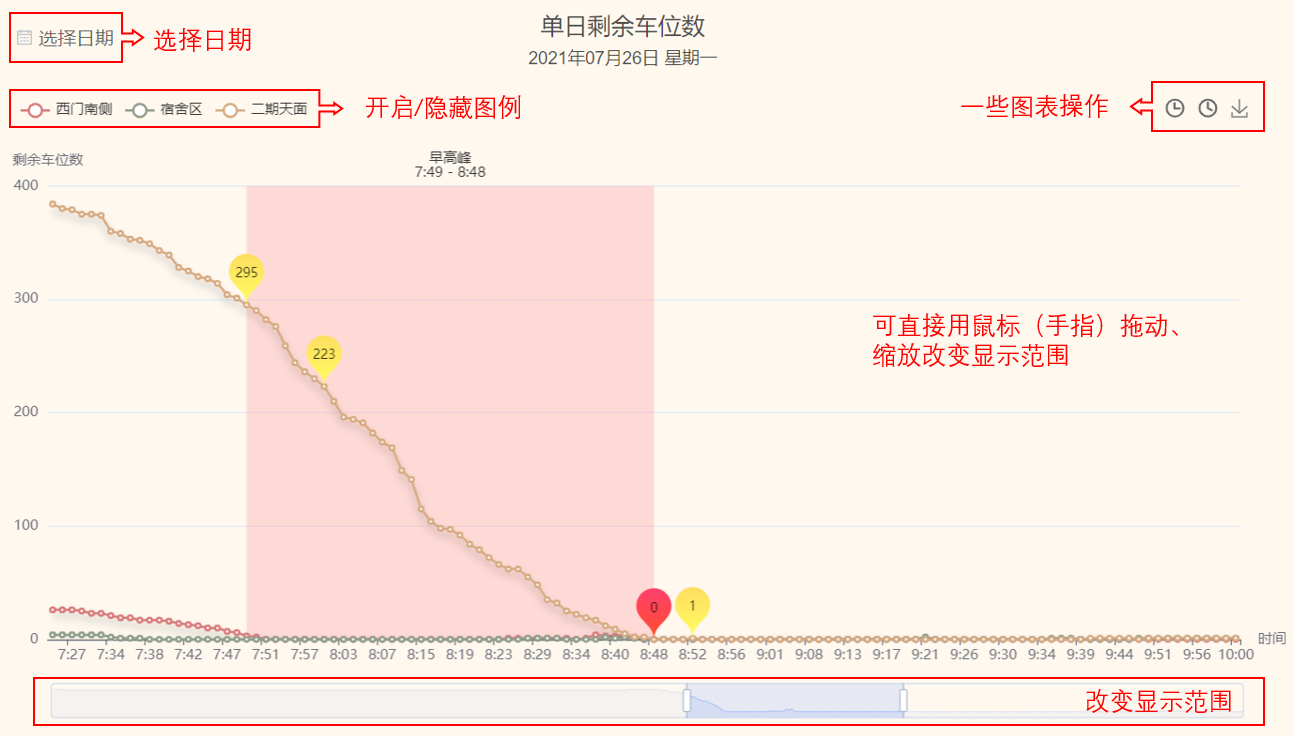
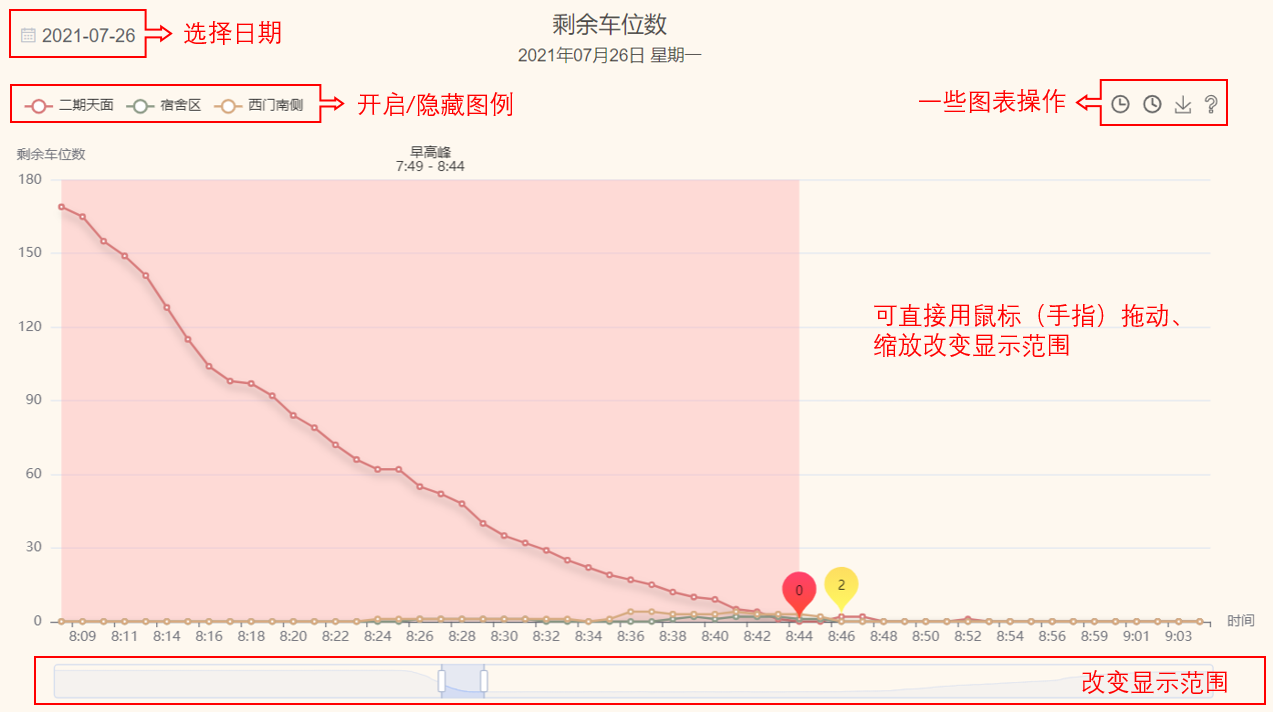
Feature: 添加单个图表的说明: 0

diff --git a/src/components/Charts/theChart4.vue b/src/components/Charts/theChart4.vue
@@ -188,7 +188,6 @@ export default {
         toolbox: {
           show: true,
           right: "9%",
-          // top: "-5px",
           feature: {
             myTool1: {
               show: true,
@@ -209,6 +208,31 @@ export default {
             saveAsImage: {
               title: "保存为图片",
             },
+            myManual: {
+              show: true,
+              icon: "path://M559.261538 748.307692h-98.461538c-15.753846 0-27.569231-11.815385-27.569231-27.56923v-29.538462c0-82.707692 53.169231-157.538462 131.938462-185.107692 23.630769-7.876923 45.292308-21.661538 63.015384-41.353846 98.461538-118.153846 7.876923-259.938462-110.276923-263.876924-43.323077-1.969231-84.676923 13.784615-116.184615 43.323077-25.6 23.630769-41.353846 53.169231-45.292308 86.646154-1.969231 11.815385-13.784615 21.661538-29.538461 21.661539h-98.461539c-17.723077 0-31.507692-13.784615-29.538461-31.507693 7.876923-74.830769 41.353846-141.784615 94.523077-194.953846 63.015385-59.076923 143.753846-90.584615 230.4-88.615384C687.261538 43.323077 821.169231 177.230769 827.076923 340.676923c5.907692 137.846154-78.769231 261.907692-206.769231 309.169231-17.723077 7.876923-29.538462 21.661538-29.538461 39.384615v29.538462c0 17.723077-15.753846 29.538462-31.507693 29.538461zM590.769231 955.076923c0 15.753846-13.784615 29.538462-29.538462 29.538462h-98.461538c-15.753846 0-29.538462-13.784615-29.538462-29.538462v-98.461538c0-15.753846 13.784615-29.538462 29.538462-29.538462h98.461538c15.753846 0 29.538462 13.784615 29.538462 29.538462v98.461538z",
+              onclick: () => {},
+            },
+          },
+          tooltip: {
+            // 和 option.tooltip 的配置项相同
+            show: true,
+            formatter: function (param) {
+              if (param.name === "myManual") {
+                let redDom =
+                  "<div style='padding: 0 20px;font-size:14px;line-height:26px'>" +
+                  "<ul style='list-style: disc'>" +
+                  "<li><p>同一坐标轴上，朝上的柱子（y>0）表示车辆驶出数量。</p><p>朝下的柱子（y<0）表示车辆驶入数量</p></li>" +
+                  "<li><p>默认横坐标间隔以分钟为单位。开启“精确到秒”时，</p><p>大概8:20-8:50的一段时间间隔变为5s</p></li>" +
+                  "</ul>" +
+                  "</div>";
+
+                return redDom; // 自定义的 DOM 结构
+              } else {
+                return "";
+              }
+            },
+            extraCssText: "box-shadow: 0 0 3px rgba(0, 0, 0, 0.3);", // 自定义的 CSS 样式
           },
         },
         axisPointer: {
@@ -220,23 +244,25 @@ export default {
         legend: {
           left: "10%",
           data: [
-            "二期天面出",
             "二期天面入",
-            "宿舍区出",
+            "二期天面出",
             "宿舍区入",
-            "西门南侧出",
+            "宿舍区出",
             "西门南侧入",
+            "西门南侧出",
           ],
         },
         dataset: {
           dimensions: [
             "timeStr",
-            "p7Up",
             "p7Down",
-            "p6Up",
+            "p7Up",
             "p6Down",
-            "p5Up",
+
+            "p6Up",
             "p5Down",
+
+            "p5Up",
           ],
           source: this.dataObj.dataList,
         },
@@ -300,24 +326,16 @@ export default {
             xAxisIndex: 0,
             yAxisIndex: 0,
             type: "bar",
-            name: "二期天面出",
-            stack: "二期天面",
-            itemStyle: this.barChartStyle.itemStyle2,
-          },
-          {
-            xAxisIndex: 0,
-            yAxisIndex: 0,
-            type: "bar",
             name: "二期天面入",
             stack: "二期天面",
             itemStyle: this.barChartStyle.itemStyle,
           },
           {
-            xAxisIndex: 1,
-            yAxisIndex: 1,
+            xAxisIndex: 0,
+            yAxisIndex: 0,
             type: "bar",
-            name: "宿舍区出",
-            stack: "宿舍区",
+            name: "二期天面出",
+            stack: "二期天面",
             itemStyle: this.barChartStyle.itemStyle2,
           },
           {
@@ -329,11 +347,11 @@ export default {
             itemStyle: this.barChartStyle.itemStyle,
           },
           {
-            xAxisIndex: 2,
-            yAxisIndex: 2,
+            xAxisIndex: 1,
+            yAxisIndex: 1,
             type: "bar",
-            name: "西门南侧出",
-            stack: "西门南侧",
+            name: "宿舍区出",
+            stack: "宿舍区",
             itemStyle: this.barChartStyle.itemStyle2,
           },
           {
@@ -343,6 +361,14 @@ export default {
             name: "西门南侧入",
             stack: "西门南侧",
             itemStyle: this.barChartStyle.itemStyle,
+          },
+          {
+            xAxisIndex: 2,
+            yAxisIndex: 2,
+            type: "bar",
+            name: "西门南侧出",
+            stack: "西门南侧",
+            itemStyle: this.barChartStyle.itemStyle2,
           },
         ],
       };

diff --git a/src/components/Charts/lineChart.vue b/src/components/Charts/lineChart.vue
@@ -13,7 +13,7 @@
 
 <script>
 /**
- * 单日车位变化折线图
+ * 车位变化折线图
  */
 import * as echarts from "echarts";
 import chartColors from "@/styles/chartColors";
@@ -212,6 +212,14 @@ export default {
                 this.$emit("showMinuteAccuracy");
               },
             },
+            saveAsImage: {
+              title: "保存为图片",
+            },
+            myManual: {
+              show: true,
+              icon: "path://M559.261538 748.307692h-98.461538c-15.753846 0-27.569231-11.815385-27.569231-27.56923v-29.538462c0-82.707692 53.169231-157.538462 131.938462-185.107692 23.630769-7.876923 45.292308-21.661538 63.015384-41.353846 98.461538-118.153846 7.876923-259.938462-110.276923-263.876924-43.323077-1.969231-84.676923 13.784615-116.184615 43.323077-25.6 23.630769-41.353846 53.169231-45.292308 86.646154-1.969231 11.815385-13.784615 21.661538-29.538461 21.661539h-98.461539c-17.723077 0-31.507692-13.784615-29.538461-31.507693 7.876923-74.830769 41.353846-141.784615 94.523077-194.953846 63.015385-59.076923 143.753846-90.584615 230.4-88.615384C687.261538 43.323077 821.169231 177.230769 827.076923 340.676923c5.907692 137.846154-78.769231 261.907692-206.769231 309.169231-17.723077 7.876923-29.538462 21.661538-29.538461 39.384615v29.538462c0 17.723077-15.753846 29.538462-31.507693 29.538461zM590.769231 955.076923c0 15.753846-13.784615 29.538462-29.538462 29.538462h-98.461538c-15.753846 0-29.538462-13.784615-29.538462-29.538462v-98.461538c0-15.753846 13.784615-29.538462 29.538462-29.538462h98.461538c15.753846 0 29.538462 13.784615 29.538462 29.538462v98.461538z",
+              onclick: () => {},
+            },
             // dataZoom: {
             //   yAxisIndex: "none",
             //   title: {
@@ -223,9 +231,29 @@ export default {
             // restore: {
             //   title: "重置视图",
             // },
-            saveAsImage: {
-              title: "保存为图片",
+          },
+          tooltip: {
+            // 和 option.tooltip 的配置项相同
+            show: true,
+            formatter: function (param) {
+              if (param.name === "myManual") {
+                let redDom =
+                  "<div style='padding: 0 20px;font-size:14px;line-height:26px'>" +
+                  "<ul style='list-style: disc'>" +
+                  "<li>早高峰定义：（二期天面）剩余300个车位至满位的时间段</li>" +
+                  "<li>红色气泡：停车场满位时刻" +
+                  "<p>相邻的下一个黄色气泡：停车场出现空位</p></li>" +
+                  "<li><p>默认横坐标间隔以分钟为单位。开启“精确到秒”时，</p><p>大概8:20-8:50的一段时间间隔变为5s</p></li>" +
+                  "<li><p>由于算法问题，选择“精确到秒”或“精确到分钟”</p><p>显示的早高峰时间段可能会有误差</p></li>" +
+                  "</ul>" +
+                  "</div>";
+
+                return redDom; // 自定义的 DOM 结构
+              } else {
+                return "";
+              }
             },
+            extraCssText: "box-shadow: 0 0 3px rgba(0, 0, 0, 0.3);", // 自定义的 CSS 样式
           },
         },
         // 图表坐标缩放

diff --git a/src/components/Charts/barChart.vue b/src/components/Charts/barChart.vue
@@ -171,6 +171,31 @@ export default {
             saveAsImage: {
               title: "保存为图片",
             },
+            myManual: {
+              show: true,
+              icon: "path://M559.261538 748.307692h-98.461538c-15.753846 0-27.569231-11.815385-27.569231-27.56923v-29.538462c0-82.707692 53.169231-157.538462 131.938462-185.107692 23.630769-7.876923 45.292308-21.661538 63.015384-41.353846 98.461538-118.153846 7.876923-259.938462-110.276923-263.876924-43.323077-1.969231-84.676923 13.784615-116.184615 43.323077-25.6 23.630769-41.353846 53.169231-45.292308 86.646154-1.969231 11.815385-13.784615 21.661538-29.538461 21.661539h-98.461539c-17.723077 0-31.507692-13.784615-29.538461-31.507693 7.876923-74.830769 41.353846-141.784615 94.523077-194.953846 63.015385-59.076923 143.753846-90.584615 230.4-88.615384C687.261538 43.323077 821.169231 177.230769 827.076923 340.676923c5.907692 137.846154-78.769231 261.907692-206.769231 309.169231-17.723077 7.876923-29.538462 21.661538-29.538461 39.384615v29.538462c0 17.723077-15.753846 29.538462-31.507693 29.538461zM590.769231 955.076923c0 15.753846-13.784615 29.538462-29.538462 29.538462h-98.461538c-15.753846 0-29.538462-13.784615-29.538462-29.538462v-98.461538c0-15.753846 13.784615-29.538462 29.538462-29.538462h98.461538c15.753846 0 29.538462 13.784615 29.538462 29.538462v98.461538z",
+              onclick: () => {},
+            },
+          },
+          tooltip: {
+            // 和 option.tooltip 的配置项相同
+            show: true,
+            formatter: function (param) {
+              if (param.name === "myManual") {
+                let redDom =
+                  "<div style='padding: 0 20px;font-size:14px;line-height:26px'>" +
+                  "<ul style='list-style: disc'>" +
+                  "<li>早高峰定义：（二期天面）剩余300个车位至满位的时间段</li>" +
+                  "<li>平均满位时刻：会随着显示范围的改变而实时变化</li>" +
+                  "</ul>" +
+                  "</div>";
+
+                return redDom; // 自定义的 DOM 结构
+              } else {
+                return "";
+              }
+            },
+            extraCssText: "box-shadow: 0 0 3px rgba(0, 0, 0, 0.3);", // 自定义的 CSS 样式
           },
         },
         dataZoom: [

diff --git a/src/components/ManualDialog/index.vue b/src/components/ManualDialog/index.vue
@@ -21,12 +21,12 @@
       <p class="title-2 _margin-top">每个图表都可以通过鼠标/手势进行一些操作，如：</p>
       <p>
         <ul>
+          <li>查看数据详情</li>
           <li>选择日期或日期范围</li>
           <li>缩放改变显示的时间范围</li>
           <li>改变时间分钟/秒钟显示精度（仅限支持数据）</li>
           <li>自由显示/隐藏图例</li>
           <li>显示/隐藏标签</li>
-          <li>查看当前图表的说明</li>
           <li>……</li>
         </ul>
       </p>
@@ -89,11 +89,11 @@ export default {
 <style lang="scss" scoped>
 .manual-dialog {
   p {
-    margin: 5px 0;
+    margin: 10px 0;
   }
   ul li {
     margin-left: 30px;
-    margin-bottom: 5px;
+    margin-bottom: 10px;
     list-style: disc;
   }
   ._margin-top {
@@ -101,7 +101,7 @@ export default {
   }
 
   .title-2 {
-    margin-bottom: 10px;
+    margin: 20px 0;
     font-size: 18px;
   }
   .hint {

diff --git a/src/views/home/chart4/index.vue b/src/views/home/chart4/index.vue
@@ -18,7 +18,7 @@
       ></the-date-picker>
 
       <div>
-        <p style="font-size: 20px">单日剩余车位数每分钟变化量</p>
+        <p style="font-size: 20px">车辆出入数量</p>
         <p style="font-size: 15px; margin-top: 10px">{{ subTitle }}</p>
       </div>
     </div>

diff --git a/src/views/home/chart1/index.vue b/src/views/home/chart1/index.vue
@@ -18,7 +18,7 @@
       ></the-date-picker>
 
       <div>
-        <p style="font-size: 20px">单日剩余车位数</p>
+        <p style="font-size: 20px">剩余车位数</p>
         <p style="font-size: 15px; margin-top: 10px">{{ subTitle }}</p>
       </div>
     </div>

diff --git a/README.md b/README.md
@@ -1,12 +1,14 @@
 # 停车场车位数据分析
 
+- 此为个人开发项目，仅用于学习交流。旨在
+
 - 项目在线地址：[https://static-3173a062-eadb-478f-b52f-dcebddd1ee28.bspapp.com](https://static-3173a062-eadb-478f-b52f-dcebddd1ee28.bspapp.com)
 
 - 数据来源： yesv 停车场数据
 
 ## 已实现的图表
 
-- 单日停车场剩余车位数量折线图
+- 停车场剩余车位数量变化统计图
 
   - 以分钟为单位，显示一天中停车场剩余车位数量变化趋势（部分数据可精确到秒）
   - 显示高峰期时间段
@@ -14,17 +16,17 @@
   - 可选择日期
   - 可切换显示数据时间精度，精确到分钟或精确到秒（仅限支持的时段）
 
-* 上班早高峰时间段（二期天面）日更图
+* 上班早高峰时间段（二期天面）统计图
 
   - 以天为单位，显示一段日子中早高峰时间段
   - 以天为单位，显示一段日子中二期天面满位时刻变化趋势
   - 可选择日期范围
   - 可切换显示/隐藏标签
 
-* 单日剩余车位数每分钟变化量图
+* 车辆出入数量统计图
 
   - 同一图表中分 3 个停车场显示
-  - 同一时刻，在坐标轴上分别显示出/入停车场的车辆数量（即车位数变化量）
+  - 同一时刻，在坐标轴上分别显示出/入停车场的车辆数量
   - 以分钟为单位，显示停车场剩余车位每分钟增加或减少量（部分数据可精确到秒）
   - 可选择日期
 
@@ -33,13 +35,14 @@
 - 点击图例切换一项数据显示/隐藏
 - 可通过鼠标操作或手势操作，选择显示的时间范围
 - 可下载保存图表为图片
+- 当前图表说明 tooltip
 
 ## 已实现的功能
 
 - 两种主题切换
 - 屏幕大小改变时，手机横屏时图表大小自适应
 - 操作说明手册，手机访问温馨提示
-- 数据定时抓取。其中早高峰时段 5 秒抓取一次，非早高峰时段 1 分钟抓取一次。
+- 数据定时抓取。其中早高峰时段 5 秒抓取一次，非早高峰时段 1 分钟抓取一次
 - 数据保存至云数据库
 - 数据接口
 
@@ -49,7 +52,6 @@
 - 按周一、周二...单独统计的图表
 - 引入天气
 - 手机版
-- 单个图表说明
 
 ## LICENSE
 
